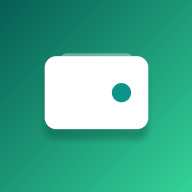
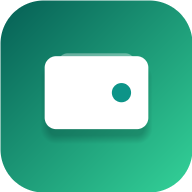
Add files via upload

Changed region(s): [[0.0, 0.0, 1.0, 1.0], [0.8125, 0.8125, 1.0, 1.0]]

diff --git a/app.js b/app.js
@@ -66,6 +66,7 @@ const ICONS = {
  edit:'<path class="f" d="m4 20 1-4L16 5l3 3L8 19z"/><path d="m4 20 1-4L16 5l3 3L8 19zM14 7l3 3"/>',
  coin:'<circle class="f" cx="12" cy="12" r="9"/><circle cx="12" cy="12" r="9"/><path d="M12 6.8v10.4M9.6 9.4c0-1 1.1-1.7 2.4-1.7s2.4.7 2.4 1.7-1 1.5-2.4 1.8-2.4.8-2.4 1.8 1.1 1.7 2.4 1.7 2.4-.7 2.4-1.7"/>',
  wifioff:'<path d="M2.5 9a14 14 0 0 1 19 0M5.6 12.6a9.5 9.5 0 0 1 12.8 0M8.9 16a5 5 0 0 1 6.2 0"/><path class="f" d="M3 3l18 18" /><path d="M3.5 3.5l17 17"/><circle cx="12" cy="19.3" r="1" fill="currentColor"/>',
+ undo:'<path d="M9 14 4 9l5-5"/><path d="M4 9h10.5a5.5 5.5 0 0 1 0 11H11"/>',
  back:'<path class="f" d="M9 5h10a1 1 0 0 1 1 1v12a1 1 0 0 1-1 1H9l-6-7z"/><path d="M9 5h10a1 1 0 0 1 1 1v12a1 1 0 0 1-1 1H9l-6-7zM12.5 9.5l4 5M16.5 9.5l-4 5"/>'
 };
 const ic = n => `<svg class="ico" viewBox="0 0 24 24" aria-hidden="true">${ICONS[n]}</svg>`;
@@ -84,11 +85,18 @@ function mstat(off = 0) {
 
 /* ====== Toast + hoàn tác ====== */
 function toast(m, undo) {
-  const el = $('#toast');
-  el.innerHTML = `<span>${m}</span>${undo ? '<button id="un">HOÀN TÁC</button>' : ''}`;
-  el.classList.add('show');
-  if (undo) $('#un').onclick = () => { undo(); el.classList.remove('show'); };
-  clearTimeout(tt); tt = setTimeout(() => el.classList.remove('show'), 5000);
+  clearTimeout(tt); const u = $('#undo'), el = $('#toast');
+  if (undo) { // chỉ hiện 1 nút tròn "quay lại" có vòng đếm ngược 5 giây
+    el.classList.remove('show');
+    u.innerHTML = `<svg class="ring" viewBox="0 0 56 56"><circle cx="28" cy="28" r="25"/></svg>${ic('undo')}`;
+    u.classList.toggle('up', $('#fab').style.display !== 'none');
+    u.onclick = () => { undo(); u.classList.remove('show'); };
+    u.classList.remove('show'); void u.offsetWidth; u.classList.add('show');
+    tt = setTimeout(() => u.classList.remove('show'), 5000);
+  } else {    // thông báo thường (lỗi nhập, nhắc sao lưu…)
+    u.classList.remove('show'); el.innerHTML = `<span>${m}</span>`; el.classList.add('show');
+    tt = setTimeout(() => el.classList.remove('show'), 3500);
+  }
 }
 
 /* ====== Giao dịch ====== */
@@ -151,7 +159,7 @@ function qMove(id, d) {
 }
 const tile = q => `<div class="tile" style="--c:${q.c}" onclick="qp(${q.id})"><span>${esc(q.e)}</span><b>${esc(q.n)}</b><small>${q.t === 'in' ? '+' : '-'}${fmt(q.a)}</small>${edit ? `<i class="mv l" onclick="event.stopPropagation();qMove(${q.id},-1)">${ic('chl')}</i><i class="mv r" onclick="event.stopPropagation();qMove(${q.id},1)">${ic('chr')}</i>` : ''}</div>`;
 const grid = (t, l) => `<div class="grid">${S.quick.filter(q => q.t === t).slice(0, l || 99).map(tile).join('')}</div>`;
-const row = t => `<div class="row" onclick="editTx('${t.id}')"><span class="ic">${esc(t.e || ce(t.cat))}</span><div class="mid"><b>${esc(t.name || t.cat)}</b><small>${esc(t.cat)} · ${tm(t.ts)}${t.note ? ' · ' + esc(t.note) : ''}</small></div><b class="${t.type}">${t.type === 'in' ? '+' : '-'}${fmt(t.amt)}</b></div>`;
+const row = t => `<div class="row" onclick="editTx('${t.id}')"><span class="ic">${esc(t.e || ce(t.cat))}</span><div class="mid"><b class="${t.note ? 'nt' : ''}">${esc(t.note || t.cat)}</b><small>${t.note ? esc(t.cat) + ' · ' : ''}${tm(t.ts)}</small></div><b class="${t.type}">${t.type === 'in' ? '+' : '-'}${fmt(t.amt)}</b></div>`;
 
 /* ====== Các màn hình ====== */
 function vHome() {
@@ -295,5 +303,6 @@ function welcome() {
 theme(); lock(); render();
 if (!S.init) welcome();
 else if (S.tx.length && Date.now() - S.set.bk > 7 * 864e5) toast('Đã hơn 7 ngày chưa sao lưu. Vào Cài đặt để xuất file.');
+const sp = $('#splash'); if (sp) setTimeout(() => { sp.classList.add('out'); setTimeout(() => sp.remove(), 400); }, 800);
 if ('serviceWorker' in navigator) navigator.serviceWorker.register('./sw.js').catch(() => {});
 if (navigator.storage && navigator.storage.persist) navigator.storage.persist();

diff --git a/style.css b/style.css
@@ -70,7 +70,7 @@ input[type=checkbox]{width:24px;height:24px;accent-color:var(--pr)}
 #sheet .bd{position:fixed;inset:0;background:rgba(0,0,0,.5);z-index:20}
 .sheet{position:fixed;left:0;right:0;bottom:0;z-index:21;max-width:560px;margin:auto;border-radius:26px 26px 0 0;max-height:88vh;overflow:auto;padding:20px 18px calc(20px + env(safe-area-inset-bottom));animation:up .28s ease}
 @keyframes up{from{transform:translateY(100%)}}
-#toast{position:fixed;left:16px;right:16px;bottom:calc(150px + env(safe-area-inset-bottom));max-width:528px;margin:auto;display:flex;justify-content:space-between;align-items:center;gap:10px;background:#0f2623;color:#fff;padding:13px 16px;border-radius:16px;z-index:30;opacity:0;transform:translateY(20px);pointer-events:none;transition:.25s}
+#toast{position:fixed;left:16px;right:16px;bottom:calc(150px + env(safe-area-inset-bottom));max-width:528px;margin:auto;display:flex;justify-content:center;align-items:center;gap:10px;background:var(--card);color:var(--tx);border:1px solid var(--bd);box-shadow:var(--sh);padding:13px 16px;border-radius:16px;z-index:30;opacity:0;transform:translateY(20px);pointer-events:none;transition:.25s}
 #toast.show{opacity:1;transform:none;pointer-events:auto}
 #toast button{border:0;background:none;color:#5eead4;font:700 14px inherit;padding:4px 2px}
 #lock{position:fixed;inset:0;z-index:100;background:var(--bg);display:none;flex-direction:column;align-items:center;justify-content:center;gap:26px}
@@ -103,3 +103,24 @@ input[type=checkbox]{width:24px;height:24px;accent-color:var(--pr)}
 .mvb{width:34px;height:34px;border-radius:10px;background:var(--bg);display:grid;place-items:center;font-size:18px;color:var(--mu)}
 .mvb:active{background:color-mix(in srgb,var(--pr) 18%,transparent)}.mvb.red{color:#e5484d}
 .srow .lb{min-width:0}
+
+/* ===== Nút hoàn tác tròn ===== */
+#undo{position:fixed;right:18px;bottom:calc(84px + env(safe-area-inset-bottom));width:52px;height:52px;border-radius:50%;border:0;padding:0;display:grid;place-items:center;background:var(--card);color:var(--pr);font-size:24px;box-shadow:0 8px 22px rgba(6,95,85,.3);z-index:8;opacity:0;transform:scale(.5);pointer-events:none;transition:opacity .2s,transform .3s cubic-bezier(.3,1.6,.5,1)}
+#undo.up{bottom:calc(152px + env(safe-area-inset-bottom))}
+#undo.show{opacity:1;transform:none;pointer-events:auto}
+#undo .ico{stroke-width:2.2}
+#undo .ring{position:absolute;left:-2px;top:-2px;width:56px;height:56px;transform:rotate(-90deg);pointer-events:none}
+#undo .ring circle{fill:none;stroke:var(--pr);stroke-width:3;stroke-linecap:round;stroke-dasharray:157.1;stroke-dashoffset:0}
+#undo.show .ring circle{animation:cd 5s linear forwards}
+@keyframes cd{to{stroke-dashoffset:157.1}}
+/* ===== Dòng giao dịch: nổi bật ghi chú ===== */
+.row .mid b{display:block;font-size:15px;font-weight:600;white-space:nowrap;overflow:hidden;text-overflow:ellipsis}
+.row .mid b.nt{font-size:17px;font-weight:800;white-space:normal;display:-webkit-box;-webkit-line-clamp:2;-webkit-box-orient:vertical;line-height:1.3}
+/* ===== Màn hình chào khi mở app (chỉ khi đã cài ra màn hình chính) ===== */
+#splash{display:none;position:fixed;inset:0;z-index:200;background:#f0f7f6;flex-direction:column;align-items:center;justify-content:center;gap:18px}
+@media (display-mode:standalone){#splash{display:flex}}
+#splash img{width:112px;height:112px;border-radius:22.5%;box-shadow:0 18px 40px rgba(6,95,85,.35);animation:pop .6s cubic-bezier(.2,1.3,.4,1) both}
+#splash b{font-size:20px;color:#0f2623;letter-spacing:.2px;animation:rise .6s .12s both}
+#splash.out{opacity:0;transition:opacity .35s;pointer-events:none}
+@keyframes pop{from{opacity:0;transform:scale(.7)}}
+@keyframes rise{from{opacity:0;transform:translateY(10px)}}

diff --git a/sw.js b/sw.js
@@ -1,6 +1,6 @@
 // Đổi số phiên bản mỗi khi đẩy code mới
-const V = 'qlt-v5';
-const A = ['./', './index.html', './style.css', './app.js', './manifest.webmanifest', './icon-180.png', './icon-192.png', './icon-512.png'];
+const V = 'qlt-v6';
+const A = ['./', './index.html', './style.css', './app.js', './manifest.webmanifest', './icon-180.png', './icon-192.png', './icon-512.png', './icon-maskable-192.png', './icon-maskable-512.png'];
 
 // Cài đặt: tải sẵn TOÀN BỘ file vào bộ nhớ máy
 self.addEventListener('install', e => {

diff --git a/index.html b/index.html
@@ -19,7 +19,9 @@
 <button id="fab" onclick="txSheet({})" aria-label="Thêm giao dịch"><svg class="ico" viewBox="0 0 24 24"><path d="M12 5v14M5 12h14"/></svg></button>
 <nav id="nav"></nav>
 <div id="sheet"></div>
+<button id="undo" aria-label="Hoàn tác"></button>
 <div id="toast"></div>
+<div id="splash"><img src="./icon-192.png" alt=""><b>Quản lý tiền</b></div>
 <div id="lock"></div>
 <script src="./app.js"></script>
 </body>
